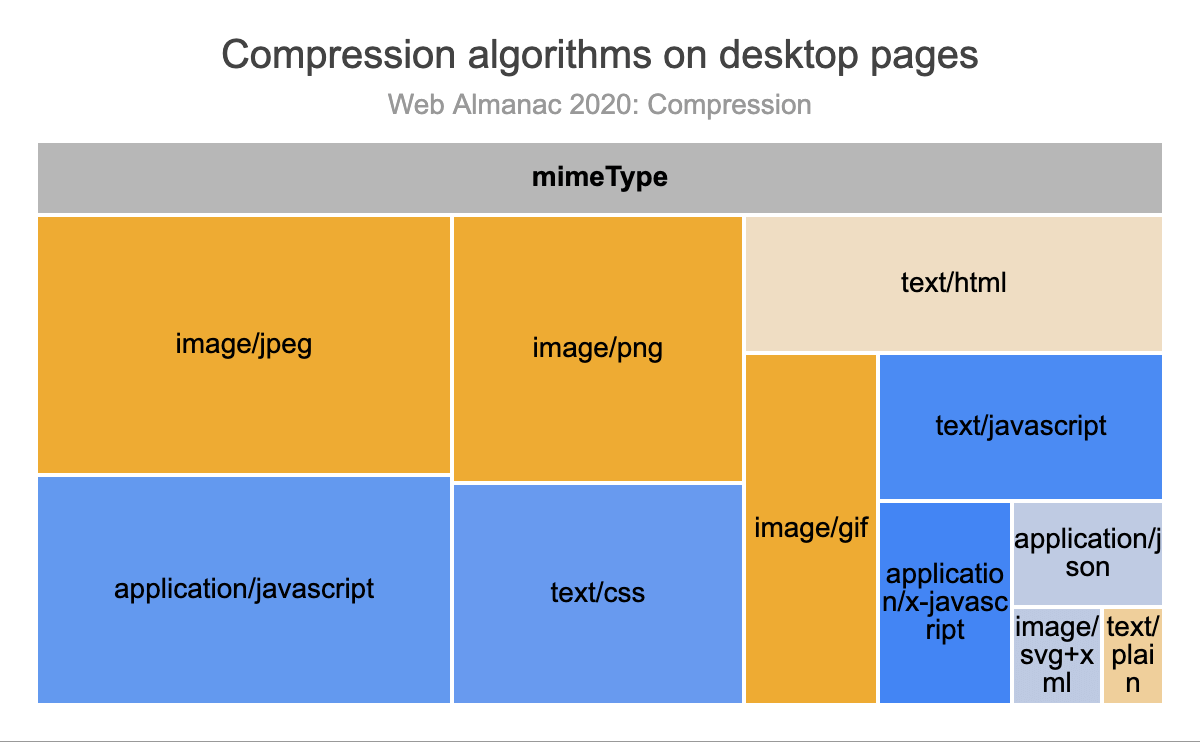
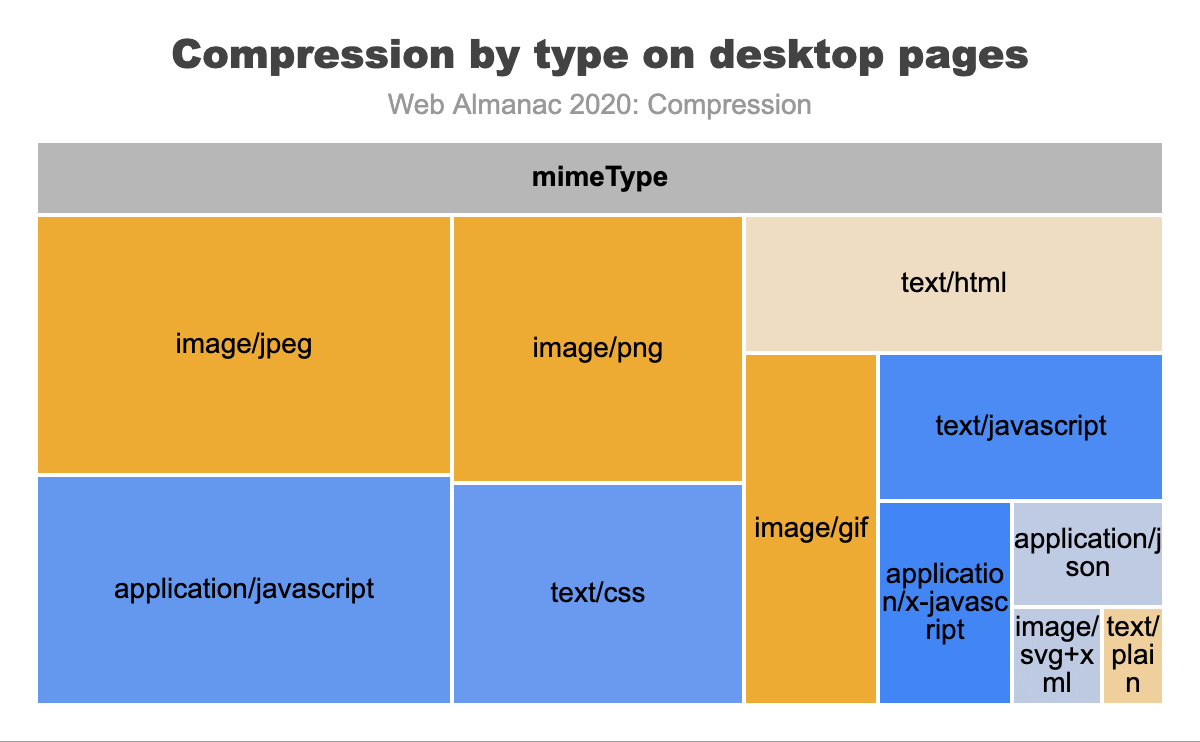
Edits for Request->Response and other fixes

Changed region(s): [[0.1233, 0.031, 0.8633, 0.124]]

diff --git a/src/content/en/2020/compression.md b/src/content/en/2020/compression.md
@@ -18,12 +18,11 @@ results: https://docs.google.com/spreadsheets/d/1NKbP4AqMkgCNCsVD3yLhO2d0aqIsgZ7
 queries: 19_Compression
 featured_quote: Using HTTP compression makes a website load faster and therefore guarantees a better user experience.
 featured_stat_1: 23%
-featured_stat_label_1: Compressed requests which use Brotli
+featured_stat_label_1: Compressed responses which use Brotli
 featured_stat_2: 77%
-featured_stat_label_2: Compressed requests which use Gzip
+featured_stat_label_2: Compressed responses which use Gzip
 featured_stat_3: 74%
 featured_stat_label_3: Websites that pass the Lighthouse audit with maximum score on text compression
-unedited: true
 ---
 
 ## Introduction
@@ -38,7 +37,7 @@ For most text-based assets, such as [HTML](./markup), [CSS](./css), [JavaScript]
 
 {{ figure_markup(
   image="compession-methods-by-content-type.png",
-  caption="Compression Methods for Different Content Types",
+  caption="Compression methods for different content types",
   description="A stacked bar chart showing the usage rate of different compression algorithms broken down by the content type. The stacked bars divide up the use of Brotli, Gzip, and no compression. `text/html` is the only content type that is compressed less than 50% of the time. `application/json` and `image/svg+xml` are each approximately 64% compressed. `text/css` and `application/javascript` are each approximately 85% compressed. `application/x-javascript` and `text/javascript` are greater than 90% compressed.",
   chart_url="https://docs.google.com/spreadsheets/d/e/2PACX-1vTxUj8-0vKTqPAblIXqekSbiRh1D1lEuA3gVD9w23qwGPtJRE8FbgrURfPAgfFZX2l0t84Wy5ZAGqzR/pubchart?oid=1658254159&format=interactive",
   sheets_gid="107138856",
@@ -46,15 +45,15 @@ For most text-based assets, such as [HTML](./markup), [CSS](./css), [JavaScript]
   )
 }}
 
-The figure shows the percent of requests of a certain content type using either Brotli, Gzip or no text compression.
+The figure shows the percent of responses of a certain content type using either Brotli, Gzip or no text compression.
 It is surprising that while all those content types would profit from compression, the range of percentages varies widely over the different content types:  only 44% use compression for `text/html` against 93% for `application/x-javascript`.
 
-For image-based assets text-based compression is less useful and not widely employed. The data shows that the percent of image requests that employ either Brotli, or Gzip is very low, less than 4%. For more info on non text-based assets, check out the [Media](./media) chapter.
+For image-based assets text-based compression is less useful and not widely employed. The data shows that the percent of image responses that employ either Brotli, or Gzip is very low, less than 4%. For more info on non text-based assets, check out the [Media](./media) chapter.
 
 {{ figure_markup(
   image="http-compression-methods-for-image-types.png",
+  caption="Compression methods for image types on desktop.",
   description="This breaks down what compression methods, if any, are used for all the content types which are images. For all three image types, i.e. jpeg, png and gif, around 96.5% use no compression is used.",
-  caption="Compression by content type as a percent for desktop.",
   chart_url="https://docs.google.com/spreadsheets/d/e/2PACX-1vTxUj8-0vKTqPAblIXqekSbiRh1D1lEuA3gVD9w23qwGPtJRE8FbgrURfPAgfFZX2l0t84Wy5ZAGqzR/pubchart?oid=1287110333&format=interactive",
   sheets_gid="449339162",
   sql_file="19_01.type_of_content_encoding.sql"
@@ -83,12 +82,12 @@ Since precompression is done beforehand, we can spend more time compressing the 
     </thead>
     <tbody>
       <tr>
-        <td>precompressed</td>
+        <td>Precompressed</td>
         <td>11</td>
         <td>9 or Zopfli</td>
       </tr>
       <tr>
-        <td>dynamically compressed</td>
+        <td>Dynamically compressed</td>
         <td>5</td>
         <td>6</td>
       </tr>
@@ -105,7 +104,7 @@ Many [popular servers](https://en.wikipedia.org/wiki/HTTP_compression#Servers_th
 
 ## Current state of HTTP compression
 
-Approximately 60% of HTTP responses are delivered with no text-based compression. This may seem like a surprising statistic, but keep in mind that it is based on all HTTP requests in the dataset. Some content, such as images, will not benefit from these compression algorithms and is therefore not often used, as shown in figure 19.2.
+Approximately 60% of HTTP responses are delivered with no text-based compression. This may seem like a surprising statistic, but keep in mind that it is based on all HTTP responses in the dataset. Some content, such as images, will not benefit from these compression algorithms and is therefore not often used, as shown in figure 19.2.
 
 <figure>
   <table>
@@ -119,7 +118,7 @@ Approximately 60% of HTTP responses are delivered with no text-based compression
     </thead>
     <tbody>
       <tr>
-        <td><em>No Text Compression</em></td>
+        <td><em>No text compression</em></td>
         <td class="numeric">60.06%</td>
         <td class="numeric">59.31%</td>
         <td class="numeric">59.67%</td>
@@ -131,7 +130,7 @@ Approximately 60% of HTTP responses are delivered with no text-based compression
         <td class="numeric">31.21%</td>
       </tr>
       <tr>
-        <td>br</td>
+        <td>Brotli</td>
         <td class="numeric">9.10%</td>
         <td class="numeric">9.11%</td>
         <td class="numeric">9.11%</td>
@@ -151,21 +150,21 @@ Approximately 60% of HTTP responses are delivered with no text-based compression
 Of the resources that are served compressed, the majority are using either Gzip (77%) or Brotli (23%). The other compression algorithms are used infrequently.
 
 {{ figure_markup(
-  image="compression-algorithms-for-http-requests.png",
-  caption="Compression algorithm usage rates.",
-  description="A bar chart showing the usage rates of different compression algorithms for HTTP requests. 77.39% of HTTP requests that use compression employ the Gzip algorithm, 22.59% use Brotli, and 0.03% use some other method.",
+  image="compression-algorithms-for-http-responses.png",
+  caption="Compression algorithm for HTTP responses.",
+  description="A bar chart showing the usage rates of different compression algorithms for HTTP responses. 77.39% of HTTP responses that use compression employ the Gzip algorithm, 22.59% use Brotli, and 0.03% use some other method.",
   chart_url="https://docs.google.com/spreadsheets/d/e/2PACX-1vTxUj8-0vKTqPAblIXqekSbiRh1D1lEuA3gVD9w23qwGPtJRE8FbgrURfPAgfFZX2l0t84Wy5ZAGqzR/pubchart?oid=1523202090&format=interactive",
   sheets_gid="1365871671",
   sql_file="19_01.type_of_content_encoding.sql"
   )
 }}
 
-In the graph below, the top 11 content types are displayed with box sizes representing the relative number of requests. The color of each box represents how many of these resources were served compressed, orange indicates a low percentage of compression while blue indicates a high percentage of compression. Most of the media content is shaded orange, which is expected since Gzip and Brotli would have little to no benefit for them.  Most of the text content is shaded blue to indicate that they are being compressed. However, the light blue shading for some content types indicate that they are not compressed as consistently as the others.
+In the graph below, the top 11 content types are displayed with box sizes representing the relative number of responses. The color of each box represents how many of these resources were served compressed, orange indicates a low percentage of compression while blue indicates a high percentage of compression. Most of the media content is shaded orange, which is expected since Gzip and Brotli would have little to no benefit for them.  Most of the text content is shaded blue to indicate that they are being compressed. However, the light blue shading for some content types indicate that they are not compressed as consistently as the others.
 
 {{ figure_markup(
   image="compression-algorithms-by-content-type-desktop.png",
-  caption="Top compressed content types on desktop.",
-  description="Treemap chart showing image/jpeg (91,926,198 requests - 3.27% compressed), application/javascript (80,360,676 requests - 84.88% compressed), image/png (66,351,767 requests - 3.7% compressed), text/css (54,104,482 requests - 84.0% compressed), text/html (48,670,006 requests - 44.25% compressed), image/gif (39,390,408 requests - 3.42% compressed), text/javascript (35,491,375 requests - 90.74% compressed), application/x-javascript (22,714,896 requests - 93.14% compressed), application/json (13,453,942 requests - 63.02% compressed), text/plain (4,629,644 requests - 32.89% compressed).",
+  caption="Compression by type on desktop pages.",
+  description="Treemap chart showing image/jpeg (91,926,198 responses - 3.27% compressed), application/javascript (80,360,676 responses - 84.88% compressed), image/png (66,351,767 responses - 3.7% compressed), text/css (54,104,482 responses - 84.0% compressed), text/html (48,670,006 responses - 44.25% compressed), image/gif (39,390,408 responses - 3.42% compressed), text/javascript (35,491,375 responses - 90.74% compressed), application/x-javascript (22,714,896 responses - 93.14% compressed), application/json (13,453,942 responses - 63.02% compressed), text/plain (4,629,644 responses - 32.89% compressed).",
   chart_url="https://docs.google.com/spreadsheets/d/e/2PACX-1vTxUj8-0vKTqPAblIXqekSbiRh1D1lEuA3gVD9w23qwGPtJRE8FbgrURfPAgfFZX2l0t84Wy5ZAGqzR/pubchart?oid=777357707&format=interactive",
   sheets_gid="449339162",
   sql_file="19_01.type_of_content_encoding.sql"
@@ -176,7 +175,7 @@ Figure 19.1 above breaks down the percentage of compression used per content typ
 
 ## First-party vs third-party compression
 
-In the [Third Parties](./third-parties) chapter, we learn about third parties and their impact on performance. This is also true for third-party request compression.
+In the [Third Parties](./third-parties) chapter, we learn about third parties and their impact on performance. Using third parties can also have an impact on compression.
 
 <figure>
   <table>
@@ -237,7 +236,7 @@ In the [Third Parties](./third-parties) chapter, we learn about third parties an
 
 When we compare compression techniques between first and third parties, we can see that third-party content tends to be compressed more than first-party content. Additionally, the percentage of Brotli compression is higher for third-party content. This is likely due to the number of resources served from the larger third parties that typically support Brotli, such as Google and Facebook.
 
-Compared with [last year's results](../2019/compression#first-party-vs-third-party-compression), we can see that there was a significant increase in the use of compression, notably Brotli for first parties, almost to the point that the use of compression is around 40% for both first and third party, and for desktop and mobile. However within the requests that do use compression, for first parties, the ratio of Brotli compression is only 18%, while the ratio for third parties is 27%.
+Compared with [last year's results](../2019/compression#first-party-vs-third-party-compression), we can see that there was a significant increase in the use of compression, notably Brotli for first parties, almost to the point that the use of compression is around 40% for both first and third party, and for desktop and mobile. However within the responses that do use compression, for first parties, the ratio of Brotli compression is only 18%, while the ratio for third parties is 27%.
 
 
 ## How to analyze compression on your sites
@@ -259,10 +258,9 @@ Another tool to better understand compression on your site is Google's [Lighthou
 
 Because the [HTTP Archive runs Lighthouse audits](./methodology#lighthouse) for each mobile page, we can aggregate the scores across all sites to learn how much opportunity there is to compress more content. Overall, 74% of websites are passing this audit, while almost 13% of websites have scored below a 40. This is a 11.5% improvement when compared to [last year's](../2019/compression#identifying-compression-opportunities) 62.5% of passing scores.
 
-{# TODO(authors): Should this x-axis be labeled "Number of Requests"? Should it be more like "Percent of `enable-text-compression` scores"? #}
 {{ figure_markup(
   image="text-compression-lighthouse-scores.png",
-  caption="Lighthouse \"enable text compression\" audit scores.",
+  caption="Text compression Lighthouse scores.",
   description="Stacked bar chart breaking down the scores pages receive for the \"enable text compression\" Lighthouse audit. It shows that 7% of sites score less than 10%, 6% of sites are scoring between 10-39%, 10% of sites scoring between 40-79%, 3% of sites scoring between 80-99%, and 74% of sites have a pass with over 100% of text assets being compressed.",
   chart_url="https://docs.google.com/spreadsheets/d/e/2PACX-1vTxUj8-0vKTqPAblIXqekSbiRh1D1lEuA3gVD9w23qwGPtJRE8FbgrURfPAgfFZX2l0t84Wy5ZAGqzR/pubchart?oid=1438276663&format=interactive",
   sheets_gid="1284073179",
@@ -272,6 +270,6 @@ Because the [HTTP Archive runs Lighthouse audits](./methodology#lighthouse) for 
 
 ## Conclusion
 
-Compared with [last year's Almanac](../2019/compression), there is a clear trend towards using more text compression. The number of requests that don't use any text compression went down a little more than 2%, while at the same time the use of Brotli has increased by almost 2%. The Lighthouse scores have improved significantly.
+Compared with [last year's Almanac](../2019/compression), there is a clear trend towards using more text compression. The number of responses that don't use any text compression went down a little more than 2%, while at the same time the use of Brotli has increased by almost 2%. The Lighthouse scores have improved significantly.
 
-Text compression is widely used for the relevant formats, although there is still a significant percentage of HTTP requests that could benefit from additional compression. You can profit from taking a close look at the configuration of your server and set compression methods and levels to your need. A great impact for a more positive user experience could be made by carefully choosing defaults for the most popular HTTP servers.
+Text compression is widely used for the relevant formats, although there is still a significant percentage of HTTP responses that could benefit from additional compression. You can profit from taking a close look at the configuration of your server and set compression methods and levels to your need. A great impact for a more positive user experience could be made by carefully choosing defaults for the most popular HTTP servers.
